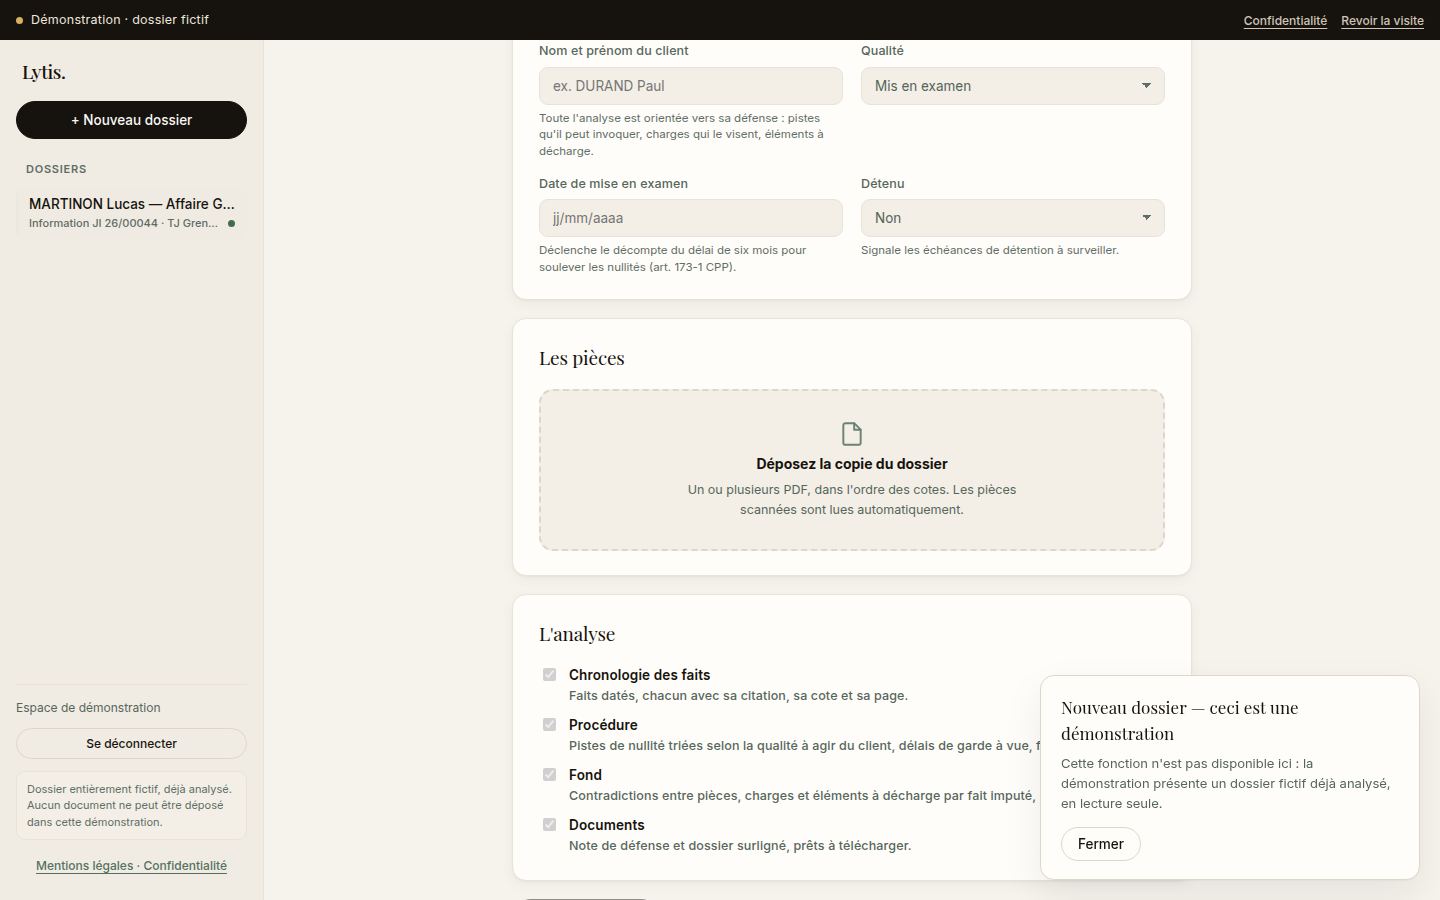
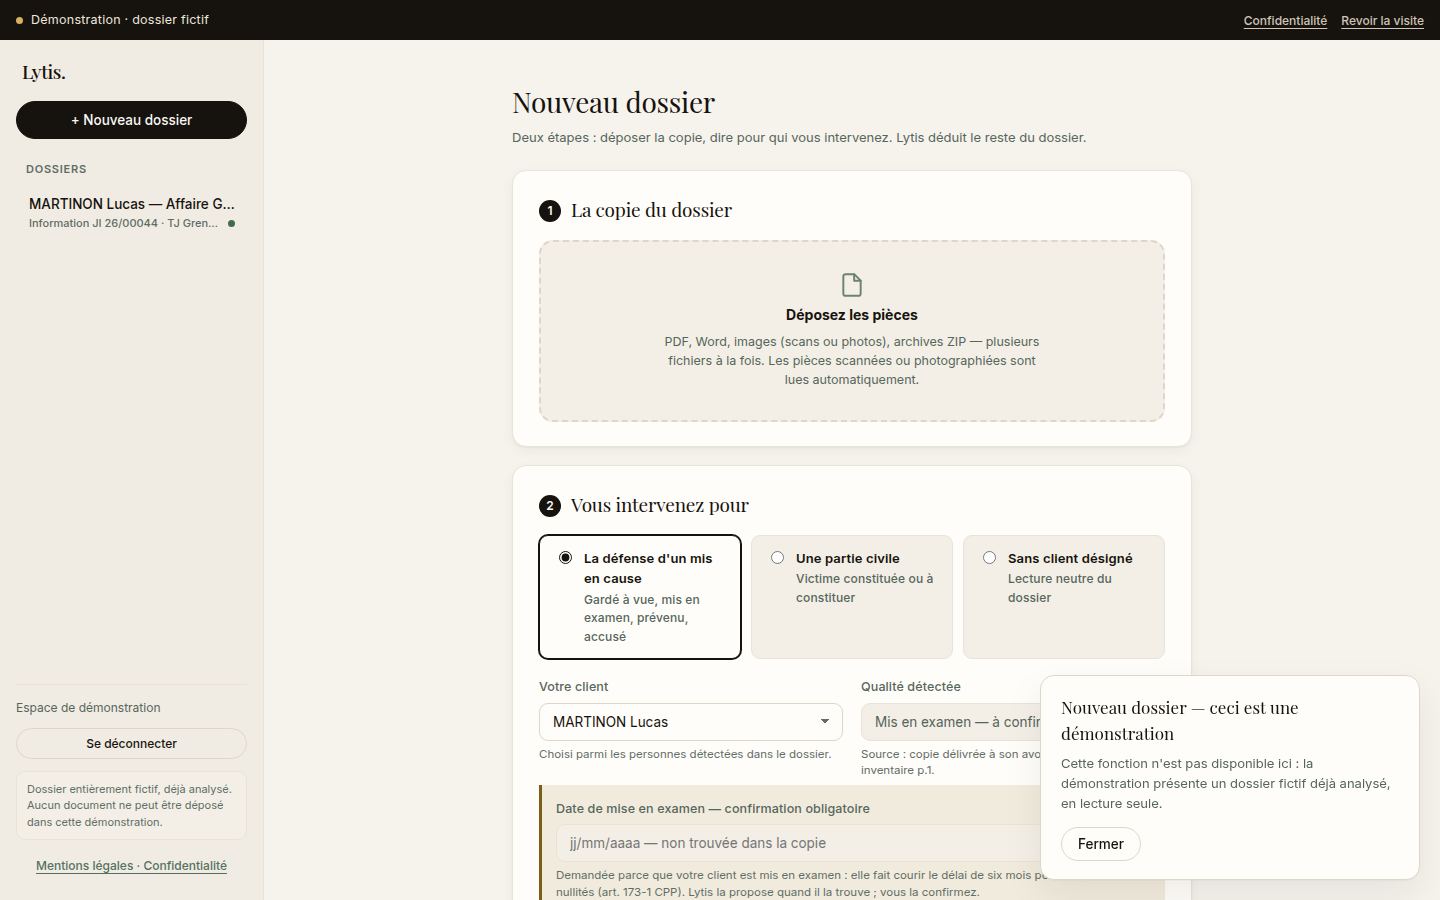
demo: formulaire « Nouveau dossier » en deux étapes, qui s'adapte
- Étape 1 : dépôt des pièces (PDF, Word, images, archives ZIP).
- Étape 2 : pour qui l'avocat intervient (défense, partie civile, sans
  client) et choix de la personne parmi celles détectées ; seuls ces deux
  choix sont manipulables.
- Date de mise en examen demandée uniquement pour un client mis en
  examen, avec confirmation obligatoire (délai de l'art. 173-1).
- Référence, juridiction, stade, détention et nom du dossier affichés
  comme détectés automatiquement ; plus de cases à cocher : l'analyse
  complète est toujours produite.

Claude-Session: https://claude.ai/code/session_01TiRuWH22G9KjR2WhbMiB4b

diff --git a/demo/site/app.js b/demo/site/app.js
@@ -787,11 +787,49 @@ function ouvrirDossier() {
   afficherVue("dossier");
 }
 
-// --- Nouveau dossier : le formulaire réel, verrouillé -----------------------
+// --- Nouveau dossier : le formulaire, verrouillé ----------------------------
 //
-// L'avocat voit ce qu'on lui demandera pour lancer une analyse. Rien n'est
-// saisissable et aucun fichier ne peut être choisi : tout clic affiche le
-// même avis « ceci est une démonstration ».
+// L'avocat voit ce qu'on lui demandera pour lancer une analyse. Seuls deux
+// choix sont manipulables — pour qui il intervient, et quelle personne — afin
+// de montrer que le formulaire s'adapte (la date de mise en examen n'est
+// demandée que pour un client mis en examen). Rien ne peut être saisi, aucun
+// fichier ne peut être choisi : tout autre clic affiche l'avis habituel.
+//
+// Les personnes et informations proposées sont celles que Lytis détecte dans
+// le dossier de démonstration.
+
+const PERSONNES_DETECTEES = {
+  defense: [
+    { nom: "MARTINON Lucas", qualite: "Mis en examen — à confirmer", source: "copie délivrée à son avocat (art. 114 CPP), inventaire p.1", misEnExamen: true, date: "", detention: "Non détectée" },
+    { nom: "FONTANEL Yannick", qualite: "Mis en examen", source: "ordonnance du JLD, C1 p.31", misEnExamen: true, date: "au plus tard le 12/03/2026 (C1 p.31)", detention: "Détention provisoire depuis le 12/03/2026 (C1 p.31)" },
+    { nom: "BERTHOLLET Gilles", qualite: "Gardé à vue, remis en liberté sur convocation", source: "registre de garde à vue, D22 p.23", misEnExamen: false, detention: "Non" },
+  ],
+  partie_civile: [
+    { nom: "SERMET Odile", qualite: "Constituée partie civile", source: "PV de plainte, D1 p.2" },
+  ],
+};
+
+const nouveauDossier = { intervention: "defense", personne: 0 };
+
+function choisirIntervention(valeur) {
+  nouveauDossier.intervention = valeur;
+  nouveauDossier.personne = 0;
+  rendreNouveauDossier();
+  suivre("Nouveau dossier — intervention", { choix: valeur });
+}
+window.choisirIntervention = choisirIntervention;
+
+function choisirPersonne(index) {
+  nouveauDossier.personne = Number(index);
+  rendreNouveauDossier();
+}
+window.choisirPersonne = choisirPersonne;
+
+function clicFormulaire(evenement) {
+  if (evenement.target.closest(".interactif")) return;
+  actionIndisponible("Nouveau dossier");
+}
+window.clicFormulaire = clicFormulaire;
 
 function champ(libelle, controle, aide = "") {
   return `
@@ -803,67 +841,97 @@ function champ(libelle, controle, aide = "") {
 }
 
 function rendreNouveauDossier() {
-  const liste = (options) => `<select disabled>${options.map((o, i) => `<option ${i === 0 ? "selected" : ""}>${o}</option>`).join("")}</select>`;
-  const cases = (options) => `<div class="cases">${options.map(([libelle, detail]) => `
-    <label class="case"><input type="checkbox" checked disabled /><span><strong>${libelle}</strong><small>${detail}</small></span></label>`).join("")}</div>`;
-  return `
+  const { intervention, personne } = nouveauDossier;
+  const personnes = PERSONNES_DETECTEES[intervention] || [];
+  const choisie = personnes[personne];
+  const option = (valeur, titre, detail) => `
+    <label class="choix-intervention interactif ${intervention === valeur ? "actif" : ""}">
+      <input type="radio" name="intervention" value="${valeur}" ${intervention === valeur ? "checked" : ""} onchange="choisirIntervention('${valeur}')" />
+      <span><strong>${titre}</strong><small>${detail}</small></span>
+    </label>`;
+
+  let blocPersonne = "";
+  if (choisie) {
+    const selecteur = `<select class="interactif" onchange="choisirPersonne(this.value)">${personnes.map((p, i) => `<option value="${i}" ${i === personne ? "selected" : ""}>${esc(p.nom)}</option>`).join("")}</select>`;
+    blocPersonne = `
+      <div class="grille-champs">
+        ${champ(intervention === "defense" ? "Votre client" : "La partie civile que vous assistez", selecteur, "Choisi parmi les personnes détectées dans le dossier.")}
+        ${champ("Qualité détectée", `<input type="text" disabled value="${esc(choisie.qualite)}" />`, `Source : ${esc(choisie.source)}.`)}
+      </div>
+      ${choisie.misEnExamen ? `
+        <div class="bloc-conditionnel">
+          ${champ("Date de mise en examen — confirmation obligatoire",
+            `<input type="text" disabled ${choisie.date ? `value="${esc(choisie.date)}"` : `placeholder="jj/mm/aaaa — non trouvée dans la copie"`} />`,
+            "Demandée parce que votre client est mis en examen : elle fait courir le délai de six mois pour soulever les nullités (art. 173-1 CPP). Lytis la propose quand il la trouve ; vous la confirmez.")}
+        </div>` : ""}
+      ${intervention === "defense" && !choisie.misEnExamen ? `<p class="note-conditionnelle">Pas de mise en examen détectée pour cette personne : aucune date à renseigner, aucun délai de nullité à suivre pour l'instant.</p>` : ""}`;
+  } else {
+    blocPersonne = `<p class="note-conditionnelle">Lecture neutre : chronologie, procédure, contradictions et recoupements, sans tri selon la qualité à agir d'un client.</p>`;
+  }
+
+  const detecte = [
+    ["Référence", "JI 26/00044 · parquet 26.038.01152"],
+    ["Juridiction", "TJ de Grenoble, cabinet d'instruction n°2"],
+    ["Stade", "Information judiciaire"],
+    ...(intervention === "defense" && choisie ? [["Détention", choisie.detention]] : []),
+    ["Nom du dossier", choisie ? `${choisie.nom} — JI 26/00044` : "Affaire GENTIANE — JI 26/00044"],
+  ];
+
+  document.getElementById("vue-nouveau").innerHTML = `
     <div class="entete-detail">
       <div>
         <h2>Nouveau dossier</h2>
-        <div class="ref-detail">Ce que Lytis vous demande pour lancer une analyse</div>
+        <div class="ref-detail">Deux étapes : déposer la copie, dire pour qui vous intervenez. Lytis déduit le reste du dossier.</div>
       </div>
     </div>
-    <div class="formulaire-demo" onclick="actionIndisponible('Nouveau dossier')">
+    <div class="formulaire-demo" onclick="clicFormulaire(event)">
       <div class="carte">
-        <h2>Le dossier</h2>
-        <div class="grille-champs">
-          ${champ("Nom du dossier", `<input type="text" disabled placeholder="ex. DURAND Paul — Affaire des entrepôts" />`)}
-          ${champ("Référence", `<input type="text" disabled placeholder="ex. JI 26/00123 · parquet 26.069.04521" />`, "Numéro d'instruction ou de parquet, tel qu'il figure sur la copie.")}
-          ${champ("Juridiction", `<input type="text" disabled placeholder="ex. TJ de Lyon, cabinet n°4" />`)}
-          ${champ("Stade de la procédure", liste(["Information judiciaire", "Enquête (garde à vue, comparution immédiate)", "Jugement", "Appel"]), "Adapte la voie et les délais des nullités proposés.")}
-        </div>
-      </div>
-
-      <div class="carte">
-        <h2>La personne que vous défendez</h2>
-        <div class="grille-champs">
-          ${champ("Nom et prénom du client", `<input type="text" disabled placeholder="ex. DURAND Paul" />`, "Toute l'analyse est orientée vers sa défense : pistes qu'il peut invoquer, charges qui le visent, éléments à décharge.")}
-          ${champ("Qualité", liste(["Mis en examen", "Témoin assisté", "Prévenu", "Accusé", "Partie civile"]))}
-          ${champ("Date de mise en examen", `<input type="text" disabled placeholder="jj/mm/aaaa" />`, "Déclenche le décompte du délai de six mois pour soulever les nullités (art. 173-1 CPP).")}
-          ${champ("Détenu", liste(["Non", "Oui — détention provisoire"]), "Signale les échéances de détention à surveiller.")}
-        </div>
-      </div>
-
-      <div class="carte">
-        <h2>Les pièces</h2>
+        <h2><span class="numero-etape">1</span>La copie du dossier</h2>
         <div class="zone-depot" aria-disabled="true">
           ${ICONE_DOCUMENT}
-          <strong>Déposez la copie du dossier</strong>
-          <span>Un ou plusieurs PDF, dans l'ordre des cotes. Les pièces scannées sont lues automatiquement.</span>
+          <strong>Déposez les pièces</strong>
+          <span>PDF, Word, images (scans ou photos), archives ZIP — plusieurs fichiers à la fois. Les pièces scannées ou photographiées sont lues automatiquement.</span>
         </div>
       </div>
 
       <div class="carte">
-        <h2>L'analyse</h2>
-        ${cases([
-          ["Chronologie des faits", "Faits datés, chacun avec sa citation, sa cote et sa page."],
-          ["Procédure", "Pistes de nullité triées selon la qualité à agir du client, délais de garde à vue, frise des actes."],
-          ["Fond", "Contradictions entre pièces, charges et éléments à décharge par fait imputé, recoupements."],
-          ["Documents", "Note de défense et dossier surligné, prêts à télécharger."],
-        ])}
+        <h2><span class="numero-etape">2</span>Vous intervenez pour</h2>
+        <div class="choix-interventions">
+          ${option("defense", "La défense d'un mis en cause", "Gardé à vue, mis en examen, prévenu, accusé")}
+          ${option("partie_civile", "Une partie civile", "Victime constituée ou à constituer")}
+          ${option("neutre", "Sans client désigné", "Lecture neutre du dossier")}
+        </div>
+        ${blocPersonne}
+      </div>
+
+      <div class="carte">
+        <h2>Détecté automatiquement, modifiable ensuite</h2>
+        <dl class="liste-detectee">
+          ${detecte.map(([k, v]) => `<dt>${k}</dt><dd>${esc(v)}</dd>`).join("")}
+        </dl>
+        <p class="aide-champ">Valeurs détectées sur le dossier de démonstration.</p>
+      </div>
+
+      <div class="carte">
+        <h2>Ce que vous obtiendrez</h2>
+        <ul class="liste-obtenu">
+          <li><strong>Chronologie</strong> — faits datés, journée des faits reconstituée, chacun avec sa citation, sa cote et sa page.</li>
+          <li><strong>Procédure</strong> — pistes de nullité triées selon ce que votre client peut invoquer, délais de garde à vue, frise des actes.</li>
+          <li><strong>Fond</strong> — contradictions entre pièces, charges et éléments à décharge par fait, recoupements.</li>
+          <li><strong>Documents</strong> — note de défense et dossier surligné, prêts à télécharger.</li>
+        </ul>
       </div>
 
       <div class="actions-formulaire">
         <button type="button" class="bouton-primaire" disabled>Lancer l'analyse</button>
-        <span class="aide-champ">Démonstration : rien ne peut être saisi ni envoyé.</span>
+        <span class="aide-champ">Démonstration : rien ne peut être déposé ni envoyé.</span>
       </div>
     </div>`;
 }
 
 function ouvrirNouveauDossier() {
   fermerClasseur();
-  const vue = document.getElementById("vue-nouveau");
-  if (!vue.innerHTML) vue.innerHTML = rendreNouveauDossier();
+  rendreNouveauDossier();
   afficherVue("nouveau");
   suivre("Nouveau dossier");
 }

diff --git a/demo/site/demo.css b/demo/site/demo.css
@@ -279,15 +279,36 @@
 .zone-depot .icone-doc { width: 26px; height: 26px; }
 .zone-depot strong { color: var(--encre); font-size: 14px; }
 .zone-depot span { font-size: 12.5px; max-width: 380px; }
-.cases { display: flex; flex-direction: column; gap: 10px; }
-.case { display: flex; align-items: flex-start; gap: 10px; margin: 0; font-size: 13.5px; color: var(--texte); }
-.case input { margin-top: 3px; accent-color: var(--accent); }
-.case strong { display: block; font-weight: 600; }
-.case small { display: block; color: var(--texte-att); font-size: 12.5px; }
 .actions-formulaire { display: flex; align-items: center; gap: 14px; margin: 4px 0 30px; flex-wrap: wrap; }
 @media (max-width: 720px) {
   .grille-champs { grid-template-columns: 1fr; }
 }
 /* Un champ désactivé ne reçoit pas les clics : on les laisse passer au
    formulaire, qui affiche l'avis « ceci est une démonstration ». */
-.formulaire-demo input, .formulaire-demo select, .formulaire-demo button { pointer-events: none; }
+.formulaire-demo input:disabled, .formulaire-demo select:disabled, .formulaire-demo button:disabled { pointer-events: none; }
+
+/* --- Nouveau dossier : parties manipulables --- */
+.formulaire-demo .interactif, .formulaire-demo .interactif * { cursor: pointer; }
+.numero-etape {
+  display: inline-flex; align-items: center; justify-content: center; width: 22px; height: 22px; margin-right: 10px;
+  border-radius: 50%; background: var(--encre); color: #faf8f4; font-family: 'Inter', sans-serif; font-size: 12px; font-weight: 600; vertical-align: 2px;
+}
+.choix-interventions { display: grid; grid-template-columns: repeat(3, 1fr); gap: 10px; margin-bottom: 8px; }
+.choix-intervention {
+  display: flex; align-items: flex-start; gap: 9px; margin: 0; padding: 12px 14px; border: 1px solid var(--bordure-douce);
+  border-radius: var(--rayon-sm); background: var(--carte-creuse); font-size: 13px; color: var(--texte);
+}
+.choix-intervention.actif { border-color: var(--encre); background: var(--carte); box-shadow: 0 0 0 1px var(--encre); }
+.choix-intervention input { margin-top: 3px; accent-color: var(--encre); }
+.choix-intervention strong { display: block; font-weight: 600; }
+.choix-intervention small { display: block; color: var(--texte-att); font-size: 12px; margin-top: 2px; }
+.formulaire-demo select.interactif { background-color: var(--carte); color: var(--encre); border-color: var(--bordure); }
+.bloc-conditionnel { margin-top: 6px; padding: 4px 14px 12px; border-left: 3px solid var(--alerte); background: var(--alerte-voile); border-radius: 0 var(--rayon-sm) var(--rayon-sm) 0; }
+.note-conditionnelle { margin: 12px 0 0; font-size: 12.5px; color: var(--texte-att); font-style: italic; }
+.liste-detectee { display: grid; grid-template-columns: 150px 1fr; gap: 6px 14px; margin: 0 0 8px; font-size: 13.5px; }
+.liste-detectee dt { color: var(--texte-att-2); }
+.liste-detectee dd { margin: 0; color: var(--encre); }
+.liste-obtenu { margin: 0; padding-left: 18px; font-size: 13.5px; }
+.liste-obtenu li + li { margin-top: 6px; }
+@media (max-width: 900px) { .choix-interventions { grid-template-columns: 1fr; } }
+@media (max-width: 720px) { .liste-detectee { grid-template-columns: 1fr; gap: 0 0; } .liste-detectee dd { margin-bottom: 6px; } }
